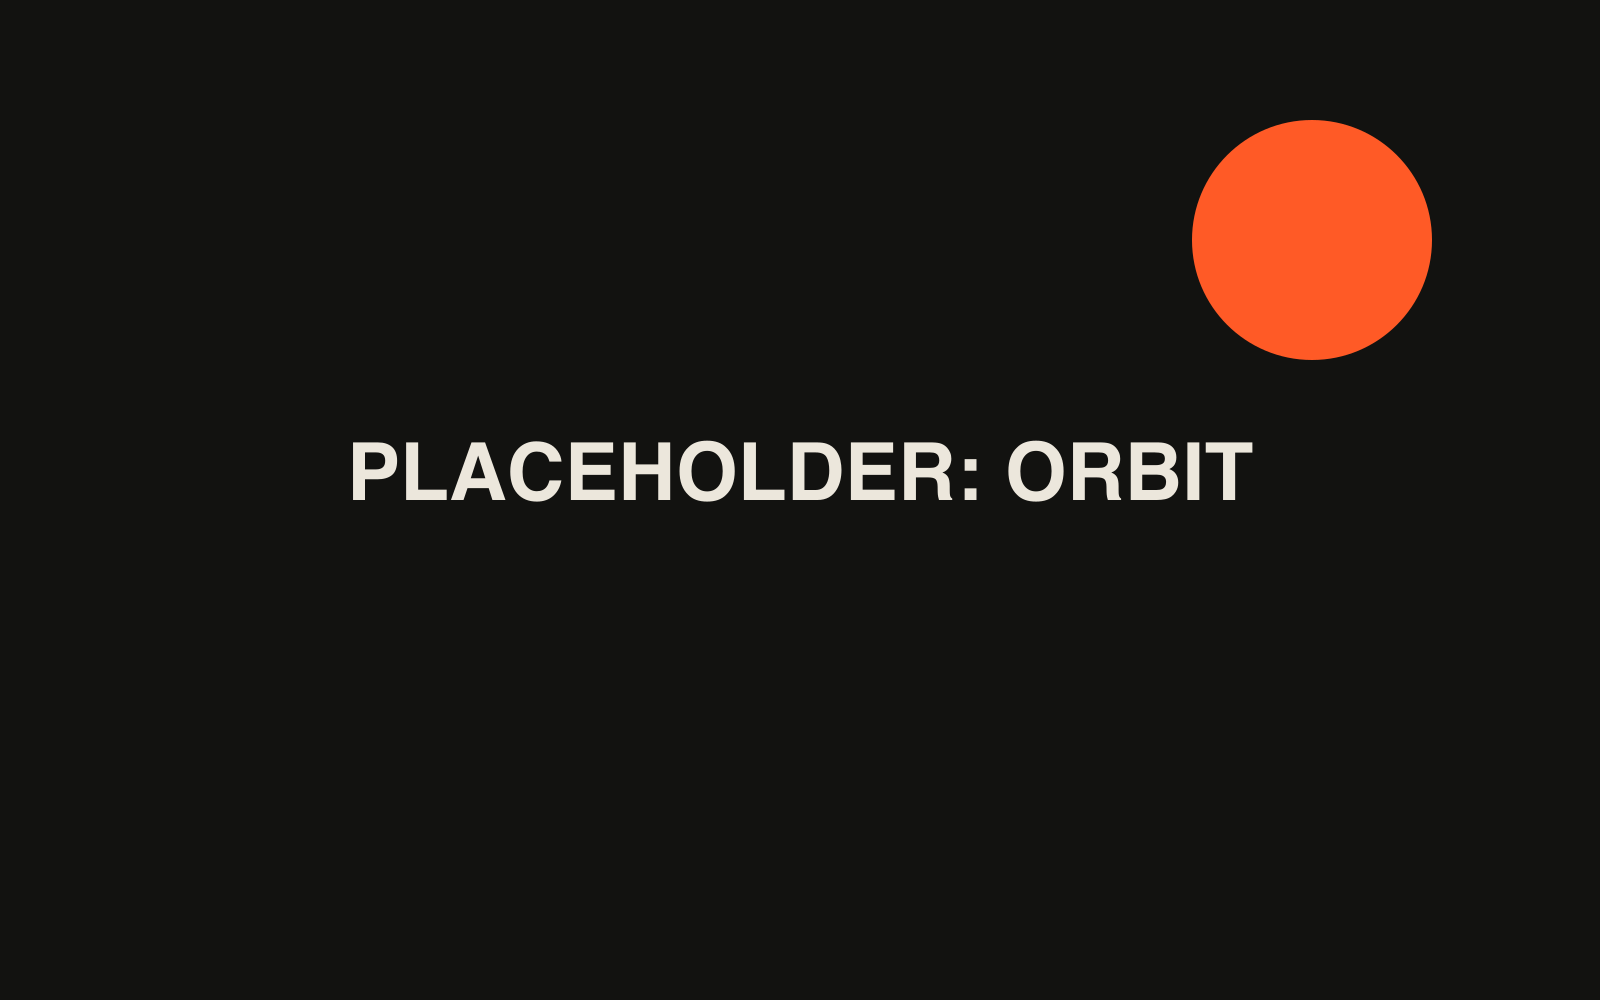
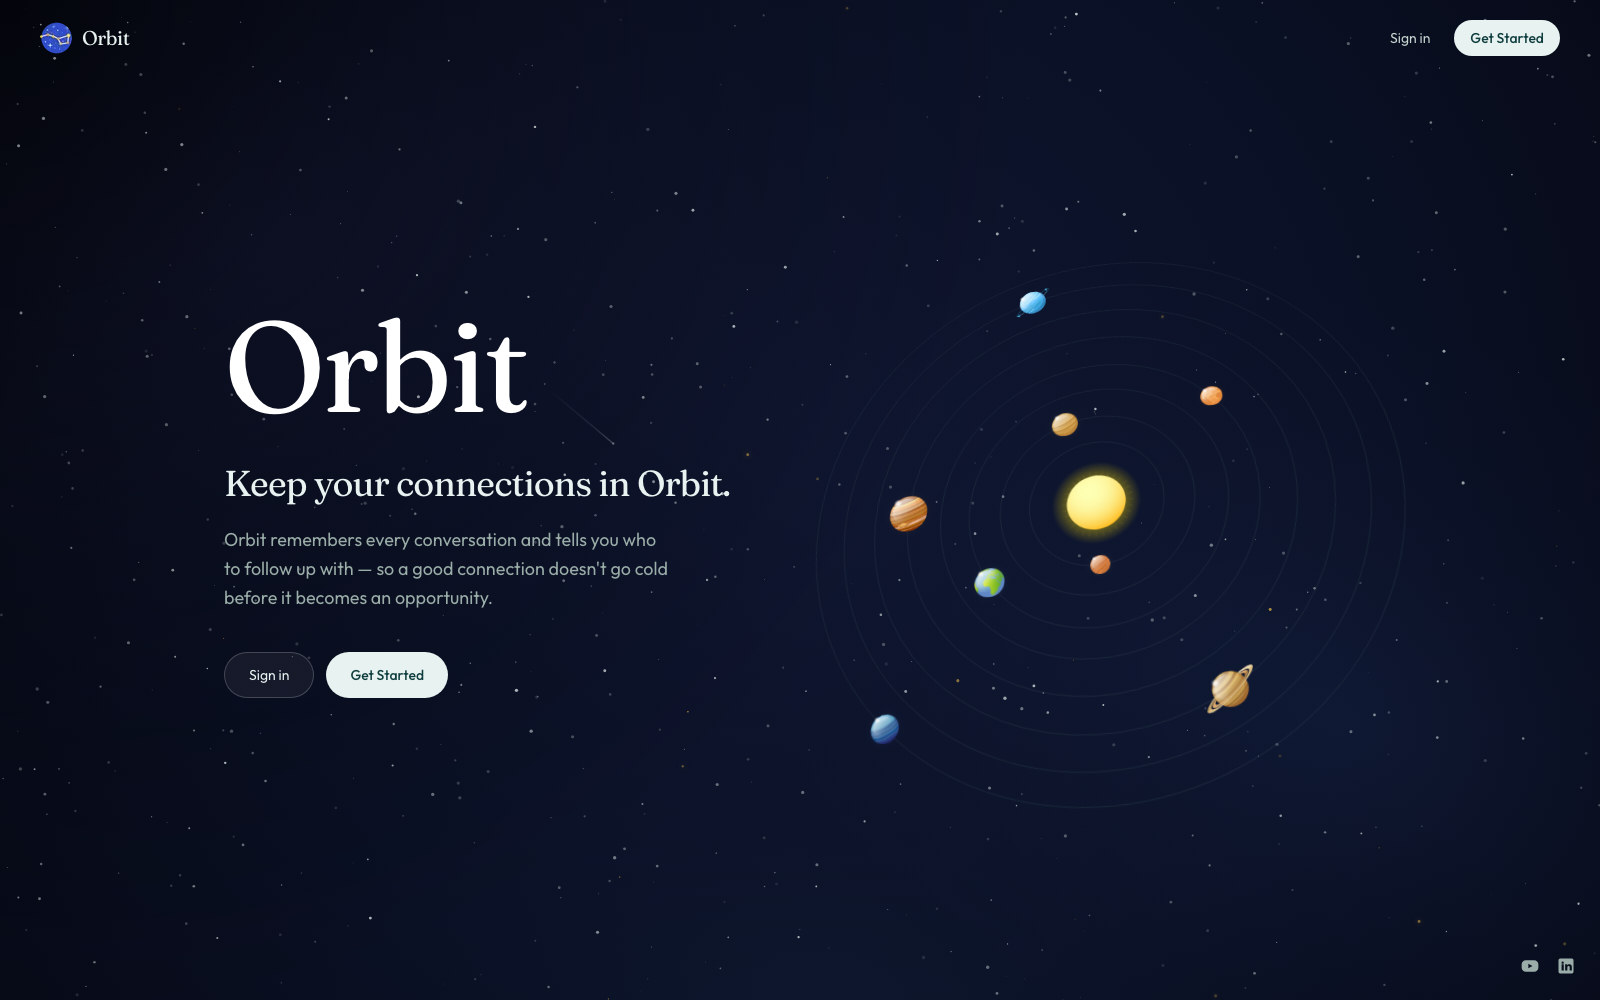
feat: add real covers, the first collage photo and the external link check
Task 15, first part. Replaces four project covers and one collage photo with real images, gives every cover alt text that describes it, shows the benchmark chart whole instead of cropped, sizes work titles so no word breaks, and adds npm run check:links. The publication link points at the journal page because its DOI does not resolve yet. The portrait, five collage photos, captions, the resume PDF and the share image are still to come.

diff --git a/tests/e2e/work.spec.ts b/tests/e2e/work.spec.ts
@@ -39,12 +39,62 @@ test.describe('selected work', () => {
     await expect(section.getByRole('tab', { name: /Orbit/ })).toHaveAttribute('aria-selected', 'false');
   });
 
+  test('every cover has alt text that describes the image, not a generic label', async ({ page }) => {
+    const alts = await page
+      .locator('#work .work__stage img')
+      .evaluateAll((images) => images.map((image) => image.getAttribute('alt') ?? ''));
+    expect(alts).toHaveLength(4);
+    for (const alt of alts) {
+      expect(alt.length, alt).toBeGreaterThan(40);
+      expect(alt).not.toMatch(/screenshot$/i);
+    }
+    expect(new Set(alts).size).toBe(4);
+  });
+
+  test('the benchmark chart is shown whole, while screenshots fill their frame', async ({ page }) => {
+    const fit = (panel: string) =>
+      page.locator(`#${panel} .work__stage img`).evaluate((image) => getComputedStyle(image).objectFit);
+    expect(await fit('panel-gpu-portfolio-engine')).toBe('contain');
+    expect(await fit('panel-streetlab')).toBe('cover');
+  });
+
+  test('pointing at a tab starts loading its cover before the project is shown', async ({ page }) => {
+    const section = page.locator('#work');
+    const cover = section.locator('#panel-orbit .work__stage img');
+    const loaded = () => cover.evaluate((image: HTMLImageElement) => image.complete && image.naturalWidth > 0);
+    expect(await loaded()).toBe(false);
+    await section.getByRole('tab', { name: /Orbit/ }).hover();
+    await expect.poll(loaded).toBe(true);
+    await expect(section.getByRole('heading', { name: 'Orbit' })).toBeHidden();
+  });
+
   test('the visible project links to its case study, and the section links to all work', async ({ page }) => {
     const section = page.locator('#work');
     await expect(section.getByRole('link', { name: 'Read the case study' })).toHaveAttribute('href', '/work/case-closed');
     await expect(section.getByRole('link', { name: 'All work' })).toHaveAttribute('href', '/work');
   });
 });
+
+for (const width of [375, 1024, 1440]) {
+  test(`no project title breaks inside a word at ${width}px wide`, async ({ page }) => {
+    await page.setViewportSize({ width, height: 900 });
+    await page.goto('/');
+    const section = page.locator('#work');
+    await section.scrollIntoViewIfNeeded();
+    await expect(section).toHaveAttribute('data-enhanced', 'true');
+
+    for (const name of [/Case Closed/, /Orbit/, /StreetLab/, /GPU Portfolio Engine/]) {
+      await section.getByRole('tab', { name }).click();
+      const overflows = await section
+        .locator('.work__panel:not([hidden]) .work__title')
+        .evaluate((title: HTMLElement) => {
+          title.style.overflowWrap = 'normal'; // without the safety net, a word that does not fit overflows its column
+          return title.scrollWidth > title.parentElement!.clientWidth;
+        });
+      expect(overflows, `${name} at ${width}px`).toBe(false);
+    }
+  });
+}
 
 test('if the showcase script fails to load, all four projects are shown stacked without tabs', async ({ page }) => {
   // A stale cached page can point at a hashed chunk that no longer exists; simulate that by aborting it.

diff --git a/src/lib/content.ts b/src/lib/content.ts
@@ -3,7 +3,7 @@ import { getCollection, getEntry, type CollectionEntry } from 'astro:content';
 type Project = CollectionEntry<'projects'>;
 
 /** A flagship project is guaranteed to carry everything its case-study page needs. */
-export type Flagship = Project & { data: { cover: string; problem: string; result: string } };
+export type Flagship = Project & { data: { cover: string; coverAlt: string; problem: string; result: string } };
 
 export const GROUP_LABELS = {
   quant: 'Quant and fintech',
@@ -52,8 +52,8 @@ export async function getProjects(): Promise<Project[]> {
 }
 
 function isFlagship(project: Project): project is Flagship {
-  const { kind, cover, problem, result } = project.data;
-  return kind === 'flagship' && Boolean(cover && problem && result);
+  const { kind, cover, coverAlt, problem, result } = project.data;
+  return kind === 'flagship' && Boolean(cover && coverAlt && problem && result);
 }
 
 export async function getFlagship(): Promise<Flagship[]> {
@@ -61,7 +61,7 @@ export async function getFlagship(): Promise<Flagship[]> {
   const incomplete = candidates.filter((project) => !isFlagship(project));
   if (incomplete.length > 0) {
     const ids = incomplete.map((project) => project.id).join(', ');
-    throw new Error(`Flagship projects need cover, problem and result in their frontmatter: ${ids}`);
+    throw new Error(`Flagship projects need cover, coverAlt, problem and result in their frontmatter: ${ids}`);
   }
   return candidates.filter(isFlagship);
 }

diff --git a/tests/e2e/work-pages.spec.ts b/tests/e2e/work-pages.spec.ts
@@ -18,6 +18,22 @@ test('the work index lists all 17 projects in their groups', async ({ page }) =>
   await expect(page.getByRole('heading', { name: 'CAT-45' })).toBeVisible();
 });
 
+test('on the work index the benchmark chart is shown whole, not cropped', async ({ page }) => {
+  await page.goto('/work');
+  const fit = (name: string) =>
+    page
+      .locator('.feature', { hasText: name })
+      .locator('img')
+      .evaluate((image) => getComputedStyle(image).objectFit);
+  expect(await fit('GPU Portfolio')).toBe('contain');
+  expect(await fit('StreetLab')).toBe('cover');
+});
+
+test('a case study cover carries alt text that describes the image', async ({ page }) => {
+  await page.goto('/work/gpu-portfolio-engine');
+  await expect(page.locator('.case__cover img')).toHaveAttribute('alt', /^Bar chart of QP solve time/);
+});
+
 test('a flagship card on the index opens its case study', async ({ page }) => {
   await page.goto('/work');
   await page.locator('.feature', { hasText: 'Orbit' }).click();

diff --git a/src/content.config.ts b/src/content.config.ts
@@ -19,6 +19,9 @@ const projects = defineCollection({
     stack: z.array(z.string()).default([]),
     links: z.array(z.object({ label: z.string(), href: z.url() })).default([]),
     cover: z.string().optional(),
+    coverAlt: z.string().optional(),
+    // 'contain' shows the whole image on a white ground (for charts); 'cover' crops it to fill the frame.
+    coverFit: z.enum(['cover', 'contain']).default('cover'),
     problem: z.string().optional(),
     result: z.string().optional(),
   }),
@@ -71,7 +74,10 @@ const about = defineCollection({
     bio: z.string(),
     facts: z.array(z.string()).length(4),
     interests: z.array(z.string()).min(1),
-    collage: z.array(z.object({ file: z.string(), caption: z.string().optional() })).min(1),
+    // `alt` describes the photo for people who cannot see it; `caption` is the visible place and year.
+    collage: z
+      .array(z.object({ file: z.string(), alt: z.string().optional(), caption: z.string().optional() }))
+      .min(1),
   }),
 });
 

diff --git a/src/scripts/showcase.ts b/src/scripts/showcase.ts
@@ -17,7 +17,13 @@ export function mount(root: HTMLElement): void {
     if (moveFocus) tabs[index].focus();
   };
 
+  // A hidden panel's lazy cover would only start loading once shown, leaving an empty frame.
+  // Pointing at or focusing a tab starts the download early.
+  const warm = (index: number) => panels[index].querySelector('img')?.setAttribute('loading', 'eager');
+
   tabs.forEach((tab, index) => {
+    tab.addEventListener('pointerenter', () => warm(index));
+    tab.addEventListener('focus', () => warm(index));
     tab.addEventListener('click', () => select(index, false));
     tab.addEventListener('keydown', (event) => {
       // Leave browser and system shortcuts (such as Alt+Left for back) alone.

diff --git a/tests/e2e/pages.spec.ts b/tests/e2e/pages.spec.ts
@@ -11,9 +11,9 @@ test('the resume page shows every section from the content spec', async ({ page 
   }
   await expect(page.getByText('AWS Certified Solutions Architect – Associate')).toBeVisible();
   await expect(page.getByText('Selected for Y Combinator Startup School 2026 (San Francisco, Jul 25–26)')).toBeVisible();
-  await expect(page.getByRole('link', { name: /doi\.org/ })).toHaveAttribute(
+  await expect(page.getByRole('link', { name: /journals\.charlotte\.edu/ })).toHaveAttribute(
     'href',
-    'https://doi.org/10.63966/teem.v17i1.2265',
+    'https://journals.charlotte.edu/teem/article/view/2265',
   );
 });
 

diff --git a/tests/e2e/about.spec.ts b/tests/e2e/about.spec.ts
@@ -22,3 +22,8 @@ test('about shows the bio, four numbered facts, interests and six collage images
   await expect(section.getByText('Hip-hop and playlist curation')).toBeVisible();
   await expect(section.locator('.about__photo img')).toHaveCount(6);
 });
+
+test('a collage photo is described by its own alt text', async ({ page }) => {
+  await page.goto('/');
+  await expect(page.locator('#about .about__photo img').first()).toHaveAttribute('alt', /^Four people/);
+});

diff --git a/src/content/projects/streetlab.md b/src/content/projects/streetlab.md
@@ -27,6 +27,7 @@ links:
   - label: Repo
     href: https://github.com/jasonpereira518/streetlab
 cover: streetlab.png
+coverAlt: "StreetLab running its Nob Hill Loop scenario. A simulated car waits at a signalised junction while a cut-in vehicle is boxed in orange, with the scenario list on the left, planner settings on the right and speed, lane, radar and steering gauges below."
 problem: "I wanted to go deep on real-time graphics, deterministic simulation and applied ML as a system rather than a notebook, and to treat every performance claim as something to measure. It is a portfolio and learning project, not a production AV system."
 result: "1,100+ automated tests, all green (910 backend, 205 frontend, 12 end-to-end). 30–60 FPS in the WebGPU viewport. Built in five cycles, each added without touching the earlier ones."
 ---

diff --git a/src/content/projects/gpu-portfolio-engine.md b/src/content/projects/gpu-portfolio-engine.md
@@ -24,6 +24,8 @@ links:
   - label: Repo
     href: https://github.com/jasonpereira518/gpu-portfolio-optimization-engine
 cover: gpu-portfolio-engine.png
+coverAlt: "Bar chart of QP solve time on CPU and GPU at 50, 500 and 3,000 assets, for two covariance models. The CPU is faster at 50 and 500 assets; the GPU is 2.48 to 2.66 times faster at 3,000."
+coverFit: contain
 problem: "GPU speedups are easy to inflate with a slow baseline. I wanted to know where a GPU actually pays off in portfolio optimization."
 result: "The QP solve is 2.48–2.66× faster on GPU at 3,000 assets (5.96 s to 2.41 s), with the crossover between 500 and 3,000 assets and parity to 1e-6. Lot rounding beat the greedy baseline in 18 of 18 cases. Only the solve stage wins on GPU; I don't claim an end-to-end speedup."
 ---

diff --git a/src/content/projects/case-closed.md b/src/content/projects/case-closed.md
@@ -32,6 +32,7 @@ links:
   - label: Repo
     href: https://github.com/jasonpereira518/caseclosed
 cover: case-closed.png
+coverAlt: "The Case Closed home page. Headline: “From case file to first draft, faster.” Below it, a demonstration matter open in the workspace with record, chronology, authority and draft tabs."
 problem: "Solo and small-firm litigators spread a case across six tools, so the record, research, analysis and first draft never stay connected."
 result: "Built in 36 hours and placed 1st of 220+ competitors at the Duke AI Hackathon (Nov 2025), judged by 34+ professors and industry judges. Accepted into UNC's 1789 Student Venture Fund in March 2026. Now live in early access."
 ---

diff --git a/src/content/projects/orbit.md b/src/content/projects/orbit.md
@@ -32,6 +32,7 @@ links:
   - label: Repo
     href: https://github.com/jasonpereira518/orbit
 cover: orbit.png
+coverAlt: "The Orbit home page. Tagline: “Keep your connections in Orbit.” Planets circle a sun on a dark starfield."
 problem: "After events and coffee chats I couldn't remember who I'd met or what we'd discussed, so warm connections went cold before they turned into anything."
 result: "466 commits. A working prototype in use by me and a small group of pilot testers, demoed at a UNC CS Founded showcase table, with end-to-end tests, per-page performance budgets, CI and error monitoring."
 ---

diff --git a/README.md b/README.md
@@ -10,6 +10,7 @@ Static site built with Astro. Design and content specs are in `docs/superpowers/
 | `npm run verify` | Type check, unit tests, build, end-to-end tests |
 | `npm run placeholders` | Create placeholder images for any that are missing |
 | `npm run check:assets` | Fail if any placeholder image is still in use |
+| `npm run check:links` | Request every external link in the built site and list the ones that do not load (run after `npm run build`) |
 
 ## Changing the copy
 
